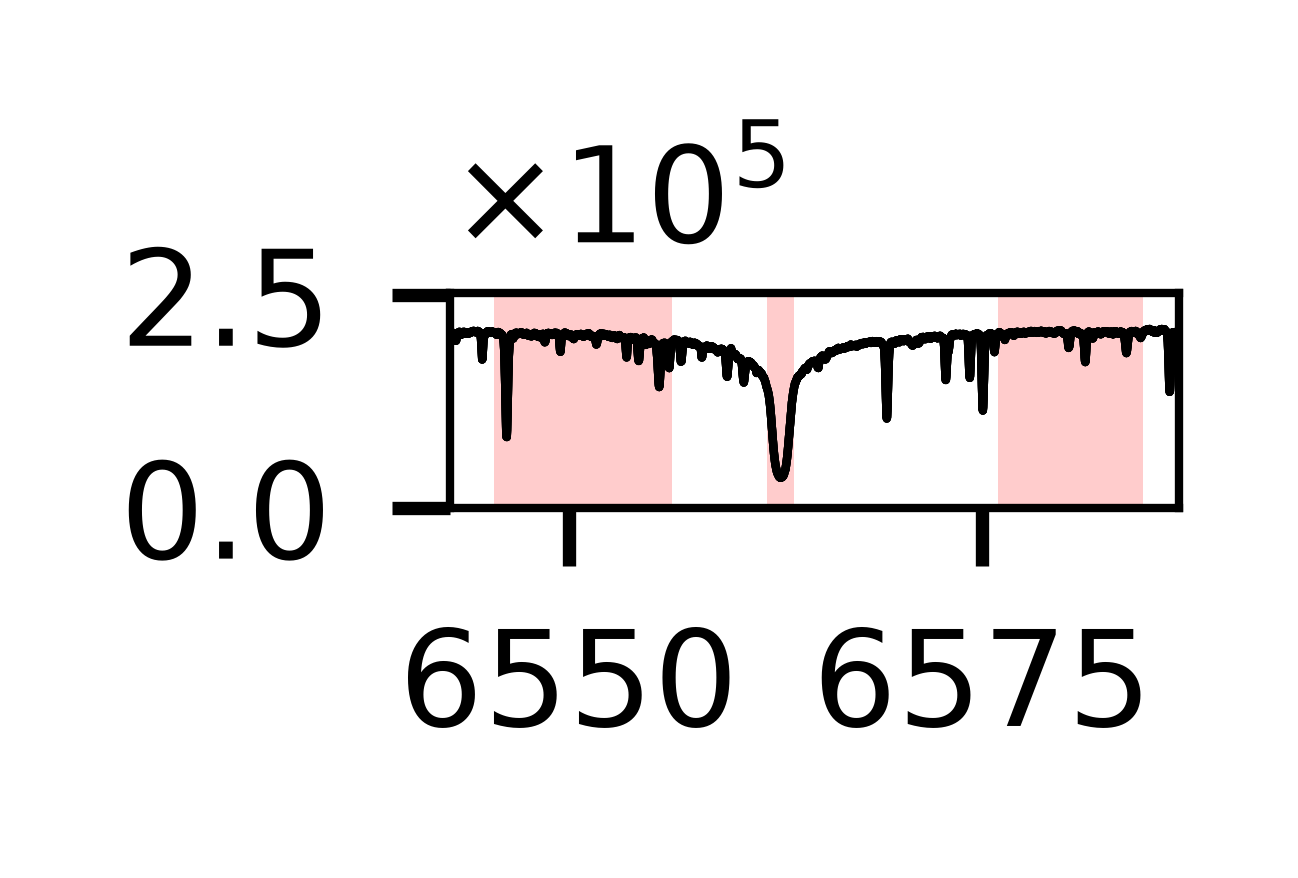
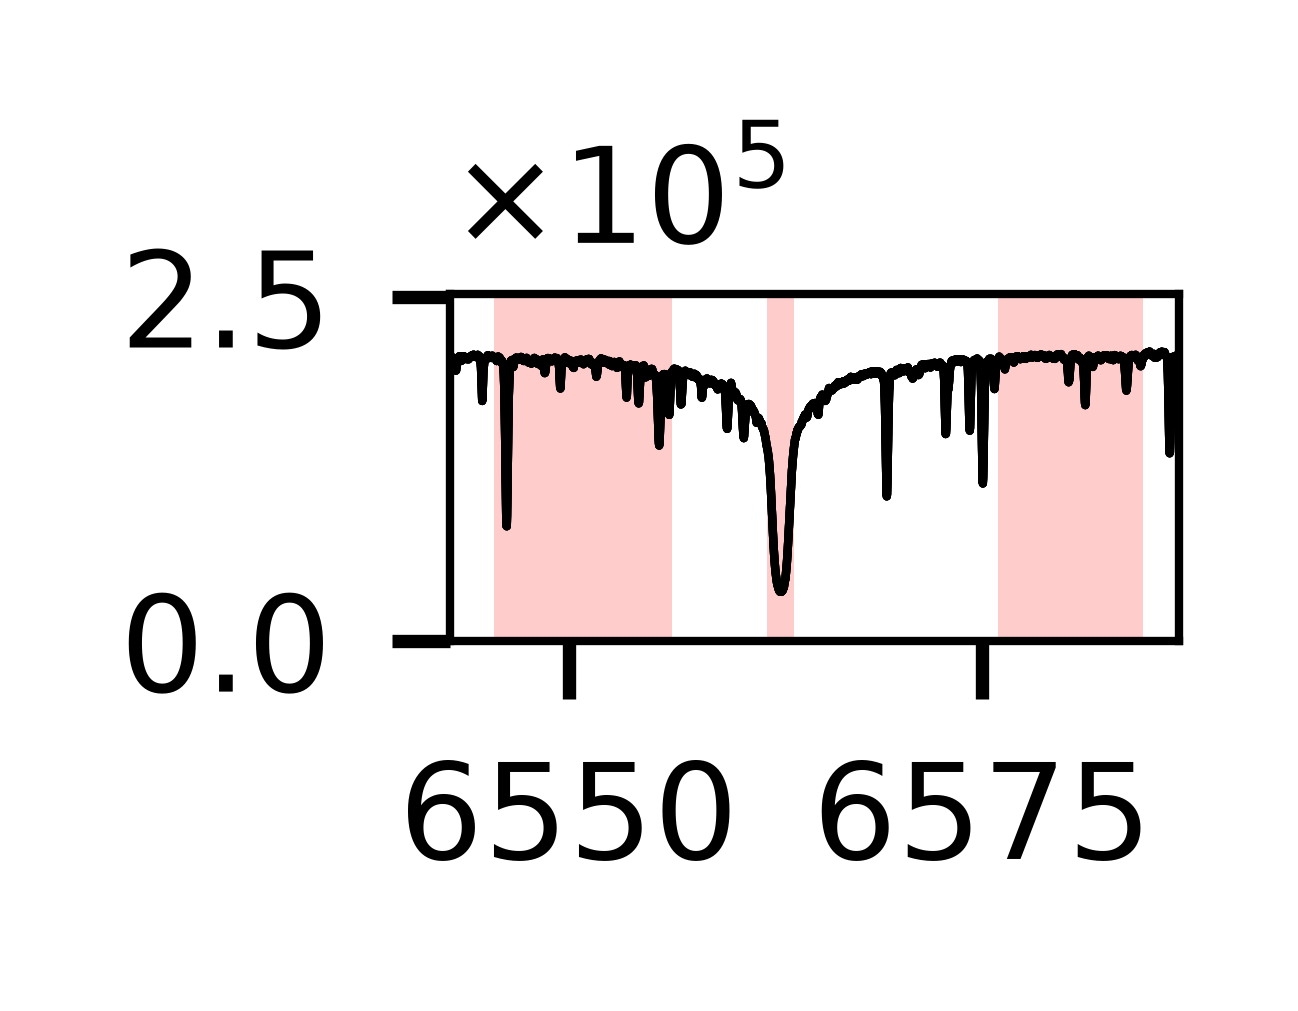
all errors fixed

diff --git a/src/fitsvisualizator.py b/src/fitsvisualizator.py
@@ -31,16 +31,9 @@ class FitsVisualizer:
 
     def plot_image(self) -> None:
         data = self._manager.get_data()
-        
-        # cleaned data
         data1 = np.ma.masked_invalid(data)        
-        
-        # header
         hdr=self._manager._header
-        
-        # coords
         wcs = WCS(hdr)
-        
         
         photflam = hdr['PHOTFLAM']
         photplam = hdr['PHOTPLAM']
@@ -49,27 +42,20 @@ class FitsVisualizer:
         pixscale = abs(hdr['CD1_1']) * 3600  # arcsec/pixel
         pixarea = pixscale**2
         
-        # Set this to the actual exposure time in seconds
         texp = hdr['EXPTIME']
-        
-        # Convert counts/pixel to erg/s/cm^2/armstrong/arcsec^2
         intensity = data1 / texp * photflam / pixarea
         
-        # Re-start data matrix
         data1 = np.full(data1.shape, np.nan)
         valid = intensity > 0
         
         # Convert erg/s/cm^2/armstrong/arcsec^2 to mag/arcsec^2
         data1[valid] = ( -2.5 * np.log10(intensity[valid]) - 5 * np.log10(photplam) - 2.406)           
-
-        # masked data
         mask = self._manager._mask[0] + self._manager._mask[1]
         data2 = np.ma.masked_where(mask == 0, intensity)
-        # figures
+        
         fig1, ax1 = plt.subplots(subplot_kw={'projection': wcs})
         fig2, ax2 = plt.subplots(subplot_kw={'projection': wcs})        
         
-        # plots
         im1=ax1.imshow(data1, cmap="plasma_r", vmin=23, vmax=30)
         im2=ax2.imshow(data2, cmap="Greys_r"  , vmin=-2e-19,vmax=1e-18)
         
@@ -90,6 +76,9 @@ class FitsVisualizer:
         self._save_fig("espectro")
         
     def _only_plot_spectrum(self) -> None:
+        """
+        Plot the spectrum of the data managed by FitsAnalyzer.
+        """
         wave = self._manager.get_wavelength()
         flux = self._manager.get_flux()
         plt.figure(figsize=(10, 10))
@@ -99,24 +88,19 @@ class FitsVisualizer:
         plt.ylabel("Flux")
         
     def plot_ca_and_h_alpha(self) -> None:
-
-        # data
         wave = self._manager.get_wavelength()
         flux = self._manager.get_flux()
-
-        # figures
         fig1, axes1 = plt.subplots(2, 2)
         fig2, axes2 = plt.subplots(1, 1, figsize=(3.4,1.6))
         
-        # axes of each band
-        axes={"caii_k":axes1[0,0],
-              "caii_h":axes1[0,1],
-              "r"     :axes1[1,0],
-              "v"     :axes1[1,1],
-              "ha"    :axes2,
-              "alph_c":axes2,
-              "alph_l":axes2,
-              "alph_r":axes2}
+        axes={"caii_k": axes1[0,0],
+              "caii_h": axes1[0,1],
+              "r"     : axes1[1,0],
+              "v"     : axes1[1,1],
+              "ha"    : axes2,
+              "alpha_c": axes2,
+              "alpha_l": axes2,
+              "alpha_r": axes2}
 
         # move axes of right figures to the right
         for i in (0,1):
@@ -129,51 +113,40 @@ class FitsVisualizer:
             ax.plot(wave, flux, color='black', zorder=10)     
             # scientific format for y-ax tick's labels
             ax.ticklabel_format(axis="y", style="sci", scilimits=(0, 0), useMathText=True)
-
         
-        # subplot limits
         left, right, max_flux = {}, {}, {}
                    
         for band in ("caii_k","caii_h"):
-            
-            # subplot limits
-            left [band]=self._manager._centre[band]-self._manager._fwhm[band]*1.5
-            right[band]=self._manager._centre[band]+self._manager._fwhm[band]*1.5
+            left[band] = self._manager.get_centre(band) - self._manager.get_fwhm(band) * 1.5
+            right[band] = self._manager.get_centre(band) + self._manager.get_fwhm(band) * 1.5
             max_flux [band]= np.max(flux[(wave >= left[band]) & (wave <= right[band])])
             
-            # geometry defs
-            x0  =self._manager._centre[band]
-            fwhm=self._manager._fwhm[band]
-            ymax=max_flux [band]
+            x0 = self._manager.get_centre(band)
+            fwhm = self._manager.get_fwhm(band)
+            ymax = max_flux[band]
             
-            # centre vertical line
             axes[band].axvline(x=x0, color="red", linestyle="--")
-            
-            # triangle shade
             axes[band].fill([x0-fwhm, x0, x0+fwhm], [0, ymax, 0],
-                                                 color="red", edgecolor=None, alpha=0.2)
+                            color="red", edgecolor=None, alpha=0.2)
         
-            # subplot limits
         for band in ("r","v"):
-            left [band]=self._manager._centre[band]-self._manager._fwhm[band]*1.5/2
-            right[band]=self._manager._centre[band]+self._manager._fwhm[band]*1.5/2
-            max_flux [band]= np.max(flux[(wave >= left[band]) & (wave <= right[band])])
-        left ["ha"]=self._manager._centre["alph_l"]-self._manager._fwhm["alph_l"]*1.5/2
-        right["ha"]=self._manager._centre["alph_r"]+self._manager._fwhm["alph_r"]*1.5/2
-        max_flux ["ha"]= np.max(flux[(wave >= left["ha"]) & (wave <= right["ha"])])
+            left[band] = self._manager.get_centre(band) - self._manager.get_fwhm(band) * 1.5 / 2
+            right[band] = self._manager.get_centre(band) + self._manager.get_fwhm(band) * 1.5 / 2
+            max_flux[band] = np.max(flux[(wave >= left[band]) & (wave <= right[band])])
+        
+        left ["ha"] = self._manager.get_centre("alpha_l") - self._manager.get_fwhm("alpha_l") * 1.5 / 2
+        right["ha"] = self._manager.get_centre("alpha_r") + self._manager.get_fwhm("alpha_r") * 1.5 / 2
+        max_flux["ha"] = np.max(flux[(wave >= left["ha"]) & (wave <= right["ha"])])
 
-            # rectangle shade
-        for band in ("r","v","alph_c","alph_l","alph_r"):
-            x0  =self._manager._centre[band]
-            width=self._manager._fwhm[band]
+        for band in ("r","v","alpha_c","alpha_l","alpha_r"):
+            x0 = self._manager.get_centre(band)
+            width = self._manager.get_fwhm(band)
             axes[band].axvspan(x0 - width/2, x0 + width/2, 
-                                                    color="red", linewidth=0, alpha=0.2)     
+                               color="red", linewidth=0, alpha=0.2)     
 
-        # set limits
         for band in ("caii_k","caii_h","r","v","ha"):
             axes[band].set_xlim(left[band],right[band])
             axes[band].set_ylim(0,max_flux[band]*1.2)
-
 
         fig1.tight_layout()
         self._save_fig("zoom2",fig1)
@@ -183,9 +156,12 @@ class FitsVisualizer:
         fig2.tight_layout()
         self._save_fig("zoom3",fig2)
         plt.figure(fig2.number)
-        plt.show()   
+        plt.show()
        
     def _save_fig(self, name: str, fig=None, extension: str = ".png") -> None:
+        """
+        Save the current figure or a specified figure to the output folder with the given name and extension.º
+        """
         if name.endswith(".png"):
             extension = ""
         if fig:

diff --git a/src/fitsanalyzer.py b/src/fitsanalyzer.py
@@ -113,4 +113,16 @@ class FitsAnalyzer:
         for path in args:
             data = np.array(Image.open(path))
             data = (data > 127).astype(np.uint8)
-            self._mask.append(data)         
+            self._mask.append(data)
+
+    def get_centre(self, band: str) -> float:
+        """
+        Get the central wavelength of a specified band.
+        """
+        return self._bands[band][0]
+
+    def get_fwhm(self, band: str) -> float:
+        """
+        Get the full width at half maximum (FWHM) of a specified band.
+        """
+        return self._bands[band][1]
